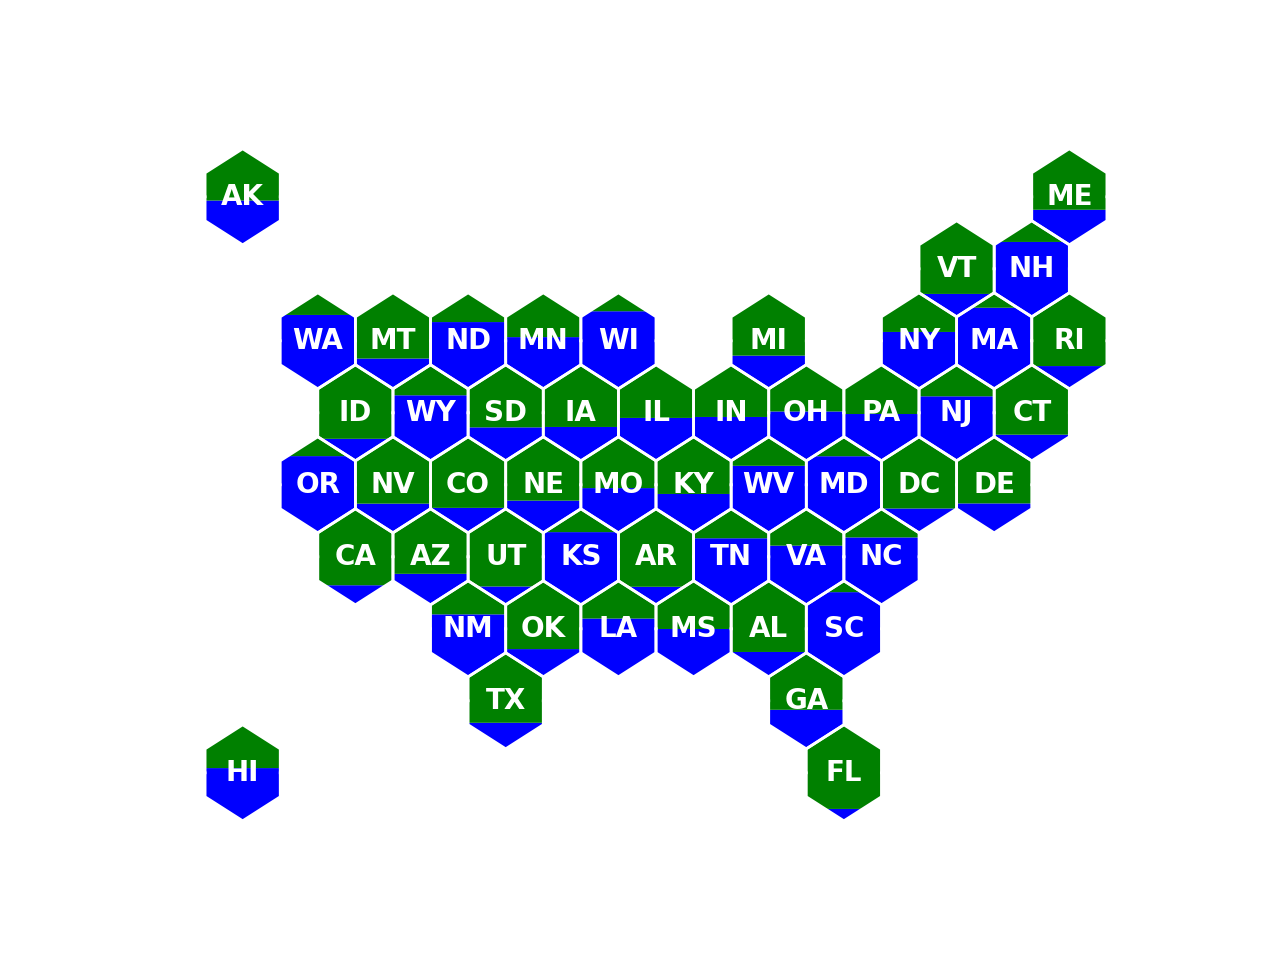
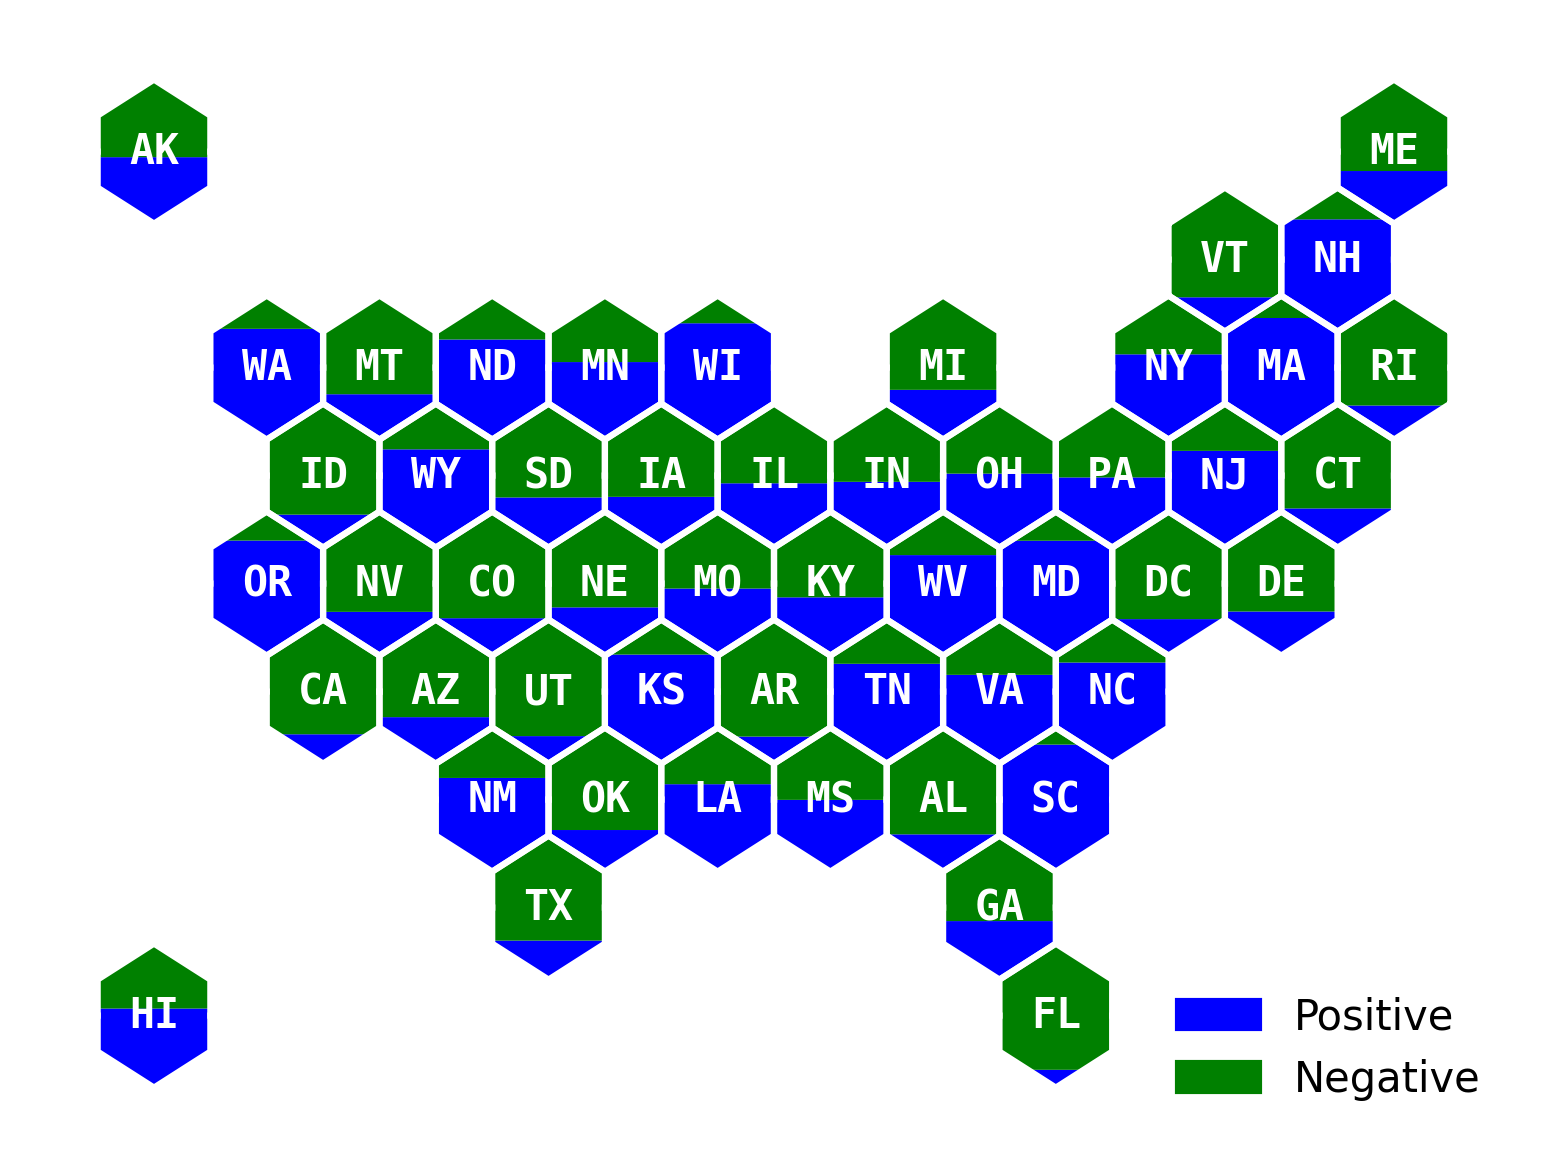
Add legends and colorbars

diff --git a/shmapy/hex_shmap.py b/shmapy/hex_shmap.py
@@ -5,6 +5,8 @@ import numpy as np
 import copy
 from logzero import logger
 import matplotlib.pyplot as plt
+from mpl_toolkits.axes_grid1 import make_axes_locatable
+import matplotlib.patches as mpatches
 from shmapy.input import (
     _read_user_input,
     _read_coordinate_file,
@@ -60,22 +62,24 @@ def _set_y(coord, radius):
 
 
 def _handle_categories(
-    value_list, fill_color, chart_type, categorical_order=None
+    value_list, fill_color, chart_type, category_labels=None
 ) -> list:
     if chart_type != "categorical":
         return value_list
 
-    if categorical_order:
-        assert len(fill_color) >= len(categorical_order)
-        fill_color = fill_color[: len(categorical_order)]
-        color_mapper = dict(zip(categorical_order, fill_color))
-
+    if category_labels:
+        assert len(fill_color) >= len(category_labels)
+        fill_color = fill_color[: len(category_labels)]
+        value_to_override_category = {val: c for val, c in zip(value_list.unique(), category_labels)}
+        value_list = value_list.apply(lambda row: value_to_override_category[row])
+        color_mapper = dict(zip(category_labels, fill_color))
+        return [color_mapper[i] for i in value_list], set(color_mapper.keys())
     else:
         # If no order is supplied we'll just do things in order
         assert len(fill_color) >= len(set(value_list))
         fill_color = fill_color[: len(set(value_list))]
         color_mapper = dict(zip(set(value_list), fill_color))
-    return [color_mapper[i] for i in value_list]
+        return [color_mapper[i] for i in value_list], set(color_mapper.keys())
 
 
 def _handle_numeric_labels(l, p, i, numeric_labels=None, custom_label=None):
@@ -372,7 +376,7 @@ def _create_vbar_hex(
 
 
 def _create_choropleth_hex(
-    ax, coord, radius, pct, line_color="#ffffff", line_width=1, colormap="viridis",
+    fig, ax, coord, radius, pct, line_color="#ffffff", line_width=1, colormap="viridis", choropleth_axis_label=None,
 ):
 
     height = np.sqrt(3) / 2 * radius
@@ -382,9 +386,13 @@ def _create_choropleth_hex(
 
     cmap = plt.get_cmap(colormap)
     # see for reference https://matplotlib.org/stable/gallery/lines_bars_and_markers/fill_between_demo.html
-    ax.fill_between(x, ytop, ybottom, facecolor=cmap(pct))
+    artist = ax.fill_between(x, ytop, ybottom, facecolor=cmap(pct))
     ax.plot(x, ytop, color=line_color, linewidth=line_width)
     ax.plot(x, ybottom, color=line_color, linewidth=line_width)
+    divider = make_axes_locatable(ax)
+    cax = divider.append_axes('right', size='5%', pad=0.05)
+    cax.set_xlabel(choropleth_axis_label)
+    fig.colorbar(artist, cax=cax)
     return ax
 
 
@@ -417,6 +425,8 @@ def plot_hex(
     show_figure=True,
     hex_kwargs=default_hex_args,
     text_kwargs=default_text_args,
+    choropleth_axis_label=None,
+    category_labels=None,
     **kwargs,
 ):
     """
@@ -447,6 +457,10 @@ def plot_hex(
     :type figsize: tuple, optional
     :param out_path: [description], defaults to None
     :type out_path: [type], optional
+    :param choropleth_axis_label: Label for the choropleth colorbar.
+    :type choropleth_axis_label: str
+    :param category_labels: List of strings that describe the categories of the graph. Used in the legend. Defaults to None.
+    :type category_labels: list of strings 
     """
     assert chart_type in ["vbar", "choropleth", "categorical"]
 
@@ -457,7 +471,7 @@ def plot_hex(
         line_color,
         line_width,
         radius,
-        categorical_order,
+        category_labels,
         excluded_states,
         excluded_color,
         colormap,
@@ -466,7 +480,7 @@ def plot_hex(
         hex_kwargs.get("line_color"),
         hex_kwargs.get("line_wdith"),
         hex_kwargs.get("radius"),
-        hex_kwargs.get("categorical_order"),
+        hex_kwargs.get("category_labels"),
         hex_kwargs.get("excluded_states"),
         hex_kwargs.get("excluded_color"),
         hex_kwargs.get("colormap"),
@@ -478,12 +492,16 @@ def plot_hex(
         text_kwargs.get("numeric_labels_custom"),
     )
 
-    pct = _handle_categories(
+    pct, derived_categories = _handle_categories(
         pct,
         fill_color=fill_color,
         chart_type=chart_type,
-        categorical_order=categorical_order,
+        category_labels=category_labels,
     )
+    # if category_labels is not set, instantiate an empty set in case
+    # the user has categories defined in the input file
+    if chart_type == "categorical":
+        category_labels = derived_categories
 
     for x, y, p, l in zip(hcoord, vcoord, pct, labels):
 
@@ -507,6 +525,7 @@ def plot_hex(
             )
         elif chart_type == "choropleth":
             _create_choropleth_hex(
+                fig,
                 ax,
                 [x, y],
                 radius=radius,
@@ -514,7 +533,9 @@ def plot_hex(
                 line_color=line_color,
                 line_width=line_width,
                 colormap=colormap,
+                choropleth_axis_label=choropleth_axis_label,
             )
+            ax.axis('off')
 
         else:
             _create_categorical_hex(
@@ -542,6 +563,12 @@ def plot_hex(
         i += 1
 
     plt.axis("off")
+    if category_labels:
+        # custom legend
+        patches = []
+        for color, label in zip(fill_color, category_labels):
+            patches.append(mpatches.Patch(color=color, label=label))
+        ax.legend(handles=patches, frameon=False)
     if out_path:
         plt.savefig(out_path, bbox_inches="tight", dpi=300)
     if show_figure:
@@ -562,9 +589,10 @@ def us_plot_hex(
     numeric_labels=None,
     numeric_labels_custom=None,
     excluded_states=None,
-    categorical_order=None,
     show_figure=True,
     out_path=None,
+    choropleth_axis_label=None,
+    category_labels=None,
     **kwargs,
 ):
     """
@@ -590,6 +618,10 @@ def us_plot_hex(
     :type text_color: str, optional
     :param figsize: [description], defaults to (8, 5)
     :type figsize: tuple, optional
+    :param choropleth_axis_label: Label for the choropleth colorbar.
+    :type choropleth_axis_label: str
+    :param category_labels: List of strings that describe the categories of the graph. Used in the legend. Defaults to None.
+    :type category_labels: list of strings 
     :return: [description]
     :rtype: [type]
     """
@@ -612,7 +644,7 @@ def us_plot_hex(
         "line_color": line_color,
         "line_width": line_width,
         "radius": radius,
-        "categorical_order": categorical_order,
+        "category_labels": category_labels,
         "excluded_states": excluded_states,
         "excluded_color": excluded_color,
         "colormap": colormap,
@@ -637,6 +669,7 @@ def us_plot_hex(
         excluded_states=excluded_states,
         hex_kwargs=hex_args,
         text_kwargs=text_args,
+        choropleth_axis_label=choropleth_axis_label,
+        category_labels=category_labels,
         **kwargs,
     )
-

diff --git a/tests/test_hex_mapify.py b/tests/test_hex_mapify.py
@@ -59,7 +59,7 @@ def test_hex_choropleth_custom(filename, numeric_labels, numeric_labels_custom):
 
 
 @pytest.mark.parametrize(
-    "filename,categorical_order",
+    "filename,category_labels",
     [
         ("tests/data/demo_input5.csv", None),
         (
@@ -68,11 +68,11 @@ def test_hex_choropleth_custom(filename, numeric_labels, numeric_labels_custom):
         ),
     ],
 )
-def test_hex_categorical_custom(filename, categorical_order):
+def test_hex_categorical_custom(filename, category_labels):
     us_plot_hex(
         filename,
         chart_type="categorical",
-        categorical_order=categorical_order,
+        category_labels=category_labels,
         show_figure=False,
     )
     assert 1 == 1

diff --git a/README.md b/README.md
@@ -26,40 +26,44 @@ FL,0.040757232
 
 Play with colors
 
-`shmapy plot-hex static/demo_input1.csv -color="['blue','green']"`
+`shmapy plot-hex --fill_color="['blue','green']" --category_labels=Positive,Negative shmapy/static/demo_input1.csv`
 
 ![](./shmapy/img/hex_out_demo1.png)
 
 Add percent fill labels to the plot automatically
 
-`shmapy plot-hex static/demo_input1.csv -numeric_labels=all -size=8`
+`shmapy plot-hex --numeric_labels=all --size=8 shmapy/static/demo_input1.csv`
 
 ![](./shmapy/img/hex_out_demo1_label.png)
 
 Resize plot (**kwargs get passed to matplotlib.pyplot.subplots())
 
-`shmapy plot-hex static/demo_input1.csv -size=3 -figsize="(3,2)"`
+`shmapy plot-hex --size=3 --figsize="(3,2)" shmapy/static/demo_input1.csv`
 
 ![](./shmapy/img/hex_out_demo1_resize.png)
 
 Plot more than two colors
 
-`shmapy plot-hex static/demo_input3.csv`
+`shmapy plot-hex shmapy/static/demo_input3.csv`
 
 ![](./shmapy/img/hex_out_demo3.png)
 
 Plot a choropleth
 
-`shmapy plot-hex static/demo_input.csv -chart_type="choropleth"`
+`shmapy plot-hex --chart_type="choropleth" --choropleth_axis_label="Positivity" shmapy/static/demo_input1.csv`
 
 
 ![](./shmapy/img/hex_out_demo1_choropleth.png)
 
-Plot a category
-
-`shmapy plot-hex static/demo_input5.csv -chart_type="categorical"`
+Plot a category using categories defined in the input file
+`shmapy plot-hex --chart_type="categorical" shmapy/static/demo_input5.csv`
 
 ![](./shmapy/img/hex_out_demo5.png)
+
+Plot a category but override the category names to user-defined category labels
+`shmapy plot-hex --chart_type="categorical" --category_labels=a,b,c,d,e shmapy/static/demo_input5.csv`
+
+![](./shmapy/img/hex_out_demo5_override.png)
 
 
 ## Input Dataframe
